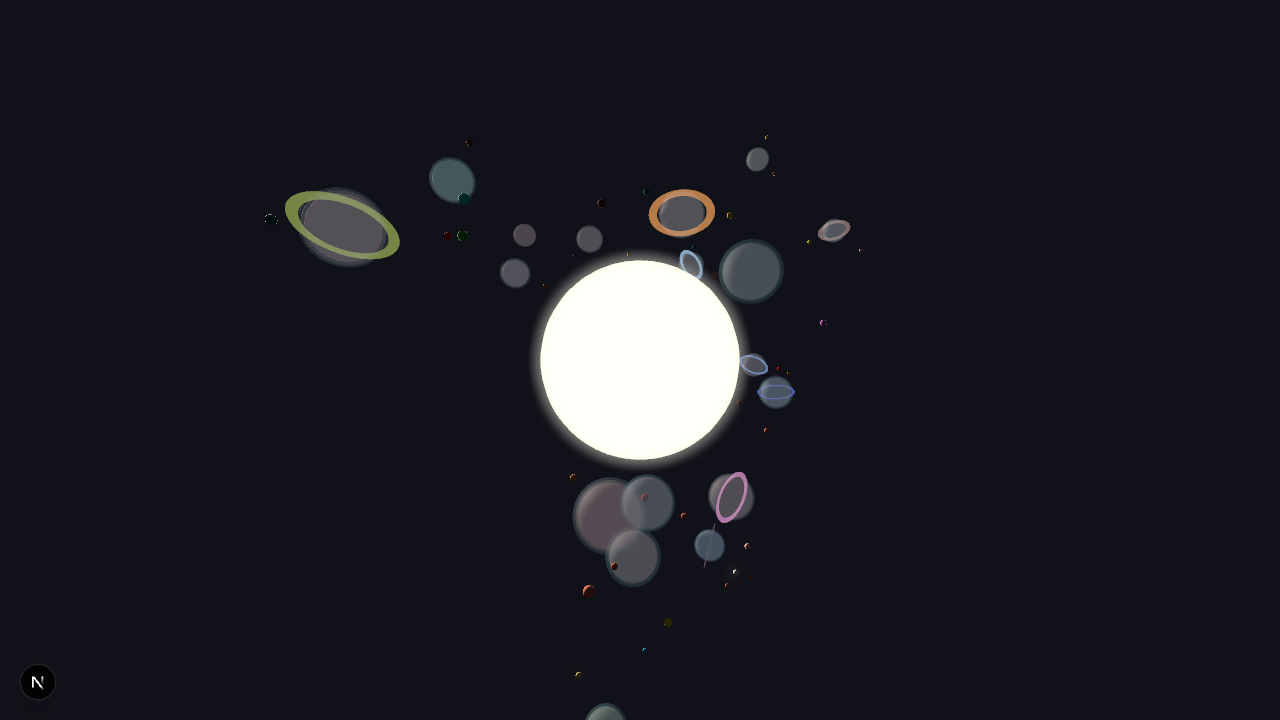
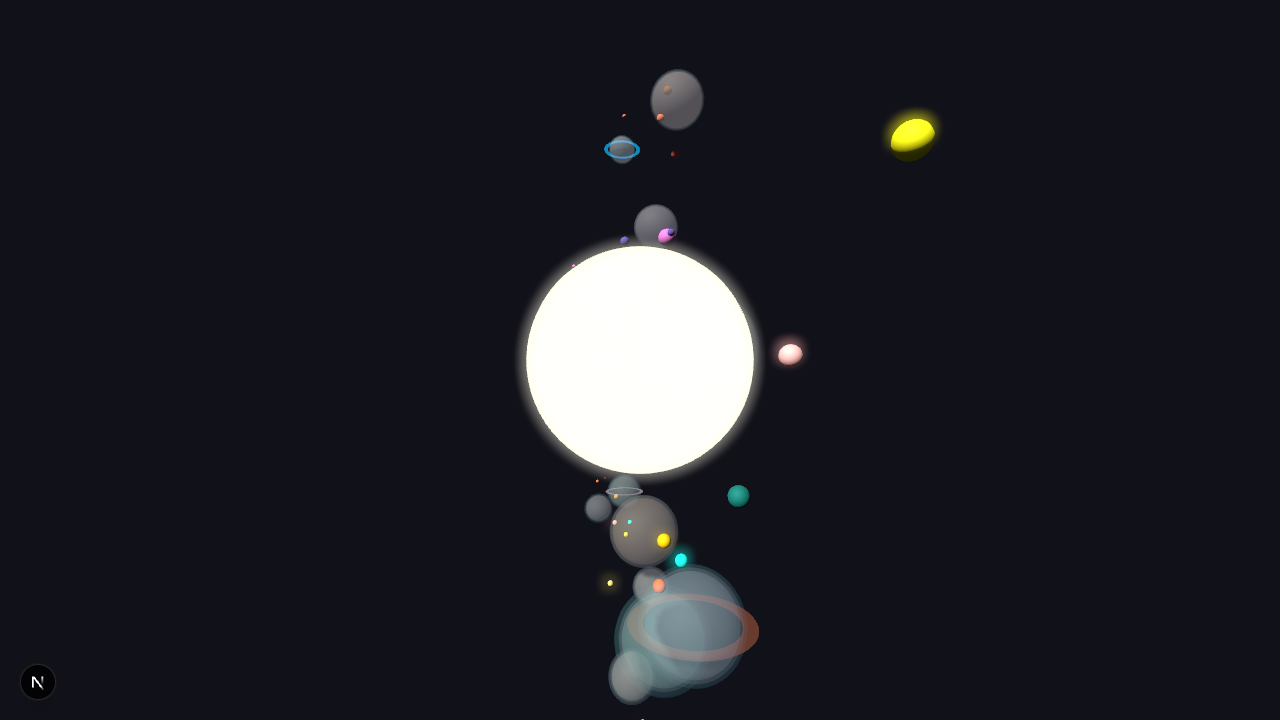
Adjust planet velocities and fix physics simulation timing

diff --git a/src/hooks/usePhysicsSimulation.ts b/src/hooks/usePhysicsSimulation.ts
@@ -9,89 +9,99 @@ type RigidBodyRef = RefObject<RapierRigidBody | null>;
 
 export const usePhysicsSimulation = (
   planets: Planet[],
-  planetRefs: RefObject<RigidBodyRef[]>, // Ref to the array of refs
+  planetRefs: RefObject<RigidBodyRef[]>,
 ): void => {
   useEffect(() => {
-    let frame: number;
+    let frameId: number | undefined = undefined;
 
     const step = () => {
+      let allRefsReady = false;
       if (
-        planets.length === 0 ||
-        !planetRefs.current ||
-        planetRefs.current.length === 0
-      )
-        return;
-
-      for (let i = 0; i < planetRefs.current.length; i++) {
-        const planetRef = planetRefs.current[i];
-        const currentPlanet = planets[i];
-
-        if (
-          !planetRef?.current ||
-          typeof planetRef.current.translation !== "function" ||
-          !currentPlanet
-        ) {
-          continue;
+        planets.length > 0 &&
+        planetRefs.current &&
+        planetRefs.current.length === planets.length
+      ) {
+        allRefsReady = true;
+        for (let i = 0; i < planets.length; i++) {
+          if (!planetRefs.current[i] || !planetRefs.current[i].current) {
+            allRefsReady = false;
+            break;
+          }
         }
+      }
 
-        const planetPos = planetRef.current.translation();
-        if (!planetPos || currentPlanet.id === "sun") {
-          continue;
-        }
+      if (allRefsReady) {
+        for (let i = 0; i < planets.length; i++) {
+          const planetRef = planetRefs.current![i]; // Known to be non-null due to allRefsReady
+          const currentPlanet = planets[i];
 
-        let fx = 0;
-        let fy = 0;
-        let fz = 0;
-
-        for (let j = 0; j < planetRefs.current.length; j++) {
-          if (i === j) continue;
-
-          const otherPlanetRef = planetRefs.current[j];
-          const otherPlanet = planets[j];
-
-          if (
-            !otherPlanetRef?.current ||
-            typeof otherPlanetRef.current.translation !== "function" ||
-            !otherPlanet
-          ) {
+          if (!planetRef.current || currentPlanet.id === "sun") {
             continue;
           }
 
-          const otherPos = otherPlanetRef.current.translation();
-          if (!otherPos) continue;
+          const planetPos = planetRef.current.translation();
+          if (!planetPos) {
+            continue;
+          }
 
-          const dx = otherPos.x - planetPos.x;
-          const dy = otherPos.y - planetPos.y;
-          const dz = otherPos.z - planetPos.z;
-          const distSq = dx * dx + dy * dy + dz * dz;
+          let fx = 0;
+          let fy = 0;
+          let fz = 0;
 
-          if (distSq === 0) continue; // Avoid division by zero if planets are at the exact same spot
-          const dist = Math.sqrt(distSq);
+          for (let j = 0; j < planets.length; j++) {
+            if (i === j) continue;
 
-          if (dist < currentPlanet.radius * 2) continue;
+            const otherPlanetRef = planetRefs.current![j]; // Known to be non-null
+            const otherPlanet = planets[j];
 
-          const forceMag = (G * otherPlanet.mass * currentPlanet.mass) / distSq;
-          fx += (dx / dist) * forceMag;
-          fy += (dy / dist) * forceMag;
-          fz += (dz / dist) * forceMag;
+            if (!otherPlanetRef.current) {
+              continue;
+            }
+
+            const otherPos = otherPlanetRef.current.translation();
+            if (!otherPos) continue;
+
+            const dx = otherPos.x - planetPos.x;
+            const dy = otherPos.y - planetPos.y;
+            const dz = otherPos.z - planetPos.z;
+            const distSq = dx * dx + dy * dy + dz * dz;
+
+            if (distSq === 0) continue;
+            const dist = Math.sqrt(distSq);
+
+            // Re-add this check from the likely "great awhile back" state
+            if (
+              currentPlanet.radius &&
+              otherPlanet.radius &&
+              dist < currentPlanet.radius + otherPlanet.radius
+            )
+              continue;
+
+            const forceMag =
+              (G * otherPlanet.mass * currentPlanet.mass) / distSq;
+            fx += (dx / dist) * forceMag;
+            fy += (dy / dist) * forceMag;
+            fz += (dz / dist) * forceMag;
+          }
+
+          planetRef.current.applyImpulse(
+            { x: fx * 0.016, y: fy * 0.016, z: fz * 0.016 },
+            true,
+          );
         }
-
-        planetRef.current.applyImpulse(
-          { x: fx * 0.016, y: fy * 0.016, z: fz * 0.016 },
-          true,
-        );
       }
-      frame = requestAnimationFrame(step);
+      frameId = requestAnimationFrame(step);
     };
 
-    if (
-      planets.length > 0 &&
-      planetRefs.current &&
-      planetRefs.current.length > 0
-    ) {
-      frame = requestAnimationFrame(step);
+    if (planets.length > 0) {
+      frameId = requestAnimationFrame(step);
+    } else {
+      // Ensure frame is cancelled if planets array becomes empty
+      if (frameId !== undefined) cancelAnimationFrame(frameId);
     }
 
-    return () => cancelAnimationFrame(frame);
-  }, [planets, planetRefs]);
+    return () => {
+      if (frameId !== undefined) cancelAnimationFrame(frameId);
+    };
+  }, [planets, planetRefs]); // planetRefs object itself is stable, G is a constant from outside.
 };

diff --git a/src/hooks/usePlanetData.ts b/src/hooks/usePlanetData.ts
@@ -24,67 +24,70 @@ export const usePlanetData = (bumpMaps: THREE.Texture[] | null): Planet[] => {
     const sizeMultiplier = 7;
     const centralRadius = 8.5 + Math.random() * 1.5;
 
-    const generatePlanets = (): Planet[] => [
-      (() => {
-        const radius = centralRadius * 2;
-        const mass = Math.pow(radius, 3) * (8 + Math.random() * 2) * 2;
-        const baseColor = "gold";
-        const altColor = "white";
-        const seed = Math.random() * 10000;
-        const bumpMap = bumpMaps[Math.floor(Math.random() * bumpMaps.length)];
-        const colorMap = generateColorMap(seed, baseColor, altColor);
-        const metalness = 0.7;
-        const roughness = 0.2;
-        const ringColor = blendColor(baseColor, altColor, 0.8);
-        const ringInner = radius * 1.3;
-        const ringOuter = ringInner + radius * 0.3;
-        const generatedMoons: MoonType[] = [];
-        const atmosphereColor = blendColor(baseColor, "white", 0.7);
-        const atmosphereLayers = [
-          {
-            color: atmosphereColor,
-            opacity: 0.5,
-            scale: 1.18,
-            additive: true,
-          },
-        ];
-        const geometryType = "sphere" as const;
-        const angularVelocity: [number, number, number] = [0, 0.1, 0];
+    const sunData = (() => {
+      const radius = centralRadius * 2;
+      const mass = Math.pow(radius, 3) * (8 + Math.random() * 2) * 2; // Reverted sun mass
+      const baseColor = "gold";
+      const altColor = "white";
+      const seed = Math.random() * 10000;
+      const bumpMap = bumpMaps[Math.floor(Math.random() * bumpMaps.length)];
+      const colorMap = generateColorMap(seed, baseColor, altColor);
+      const metalness = 0.7;
+      const roughness = 0.2;
+      const ringColor = blendColor(baseColor, altColor, 0.8);
+      const ringInner = radius * 1.3;
+      const ringOuter = ringInner + radius * 0.3;
+      const generatedMoons: MoonType[] = [];
+      const atmosphereColor = blendColor(baseColor, "white", 0.7);
+      const atmosphereLayers = [
+        {
+          color: atmosphereColor,
+          opacity: 0.5,
+          scale: 1.18,
+          additive: true,
+        },
+      ];
+      const geometryType = "sphere" as const;
+      const angularVelocity: [number, number, number] = [0, 0.1, 0];
 
-        return {
-          mass,
-          radius,
-          position: [0, 0, 0] as [number, number, number],
-          velocity: [0, 0, 0] as [number, number, number],
-          color: blendColor(baseColor, altColor, 0.7),
-          id: "sun",
-          bumpMap,
-          colorMap,
-          metalness,
-          roughness,
-          hasRing: false,
-          ringColor,
-          ringInner,
-          ringOuter,
-          moons: generatedMoons,
-          atmosphereColor,
-          atmosphereLayers,
-          geometryType,
-          angularVelocity,
-        };
-      })(),
+      return {
+        mass,
+        radius,
+        position: [0, 0, 0] as [number, number, number],
+        velocity: [0, 0, 0] as [number, number, number],
+        color: blendColor(baseColor, altColor, 0.7),
+        id: "sun",
+        bumpMap,
+        colorMap,
+        metalness,
+        roughness,
+        hasRing: false,
+        ringColor,
+        ringInner,
+        ringOuter,
+        moons: generatedMoons,
+        atmosphereColor,
+        atmosphereLayers,
+        geometryType,
+        angularVelocity,
+      };
+    })();
+
+    const generatePlanets = (): Planet[] => [
+      sunData,
       ...Array.from({ length: N - 1 }).map(() => {
         const radius = randomRadius() * sizeMultiplier;
         const mass = Math.pow(radius, 3) * (6 + Math.random() * 2);
         const angle = Math.random() * 2 * Math.PI;
-        const r = Math.random() * 60 + 20;
+        const r = Math.random() * 60 + 40;
         const z = (Math.random() - 0.5) * (Math.random() * 18 + 2);
         const x = r * Math.cos(angle);
         const y = r * Math.sin(angle);
-        const vMag = 5 * Math.sqrt((G * 50) / r);
+        const vMag =
+          (Math.sqrt((G * sunData.mass) / r) * (0.8 + Math.random() * 0.4)) / 4;
         const vx = -vMag * Math.sin(angle);
         const vy = vMag * Math.cos(angle);
-        const vz = (Math.random() - 0.5) * 0.5 * (radius < 1.2 ? 1 : 0.2);
+        const vz = (Math.random() - 0.5) * 0.1 * vMag;
         const seed = Math.random() * 10000;
         const noise2D = createNoise2D(seededRandom(seed));
         const band = Math.abs(noise2D(Math.sin(angle), Math.cos(angle)));
